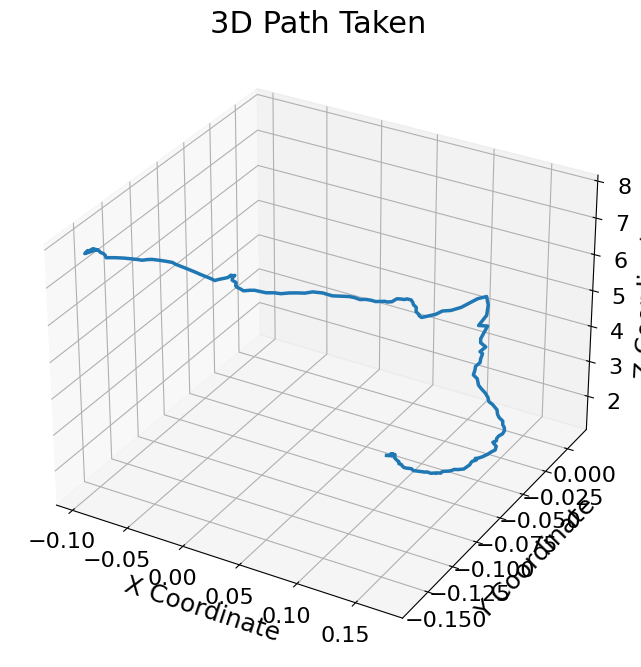
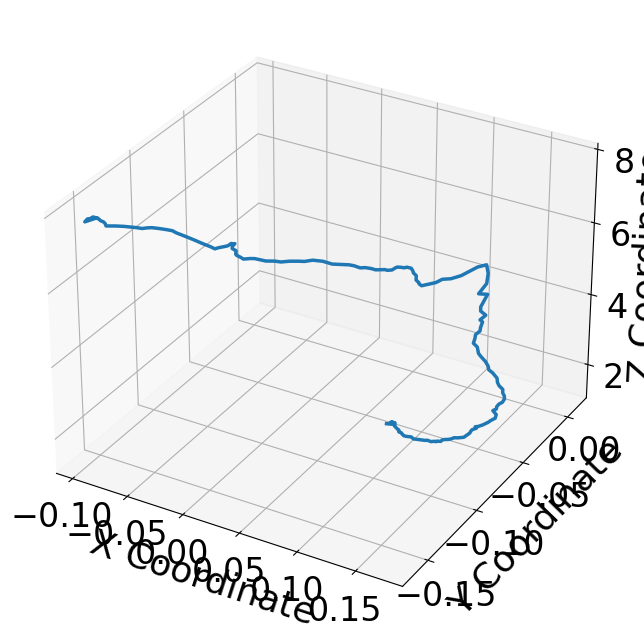
Added more for thesis

diff --git a/Documentation/Code/Plot_graph_sim.py b/Documentation/Code/Plot_graph_sim.py
@@ -49,11 +49,12 @@ z_coords_cut = [z_coords[i] for i in filtered_indices]
 fig = plt.figure(figsize=(10, 8))
 ax = fig.add_subplot(111, projection='3d')
 ax.plot(x_coords_cut, y_coords_cut, z_coords_cut, linewidth=2.5)
-ax.set_xlabel('X Coordinate', fontsize=18)
-ax.set_ylabel('Y Coordinate', fontsize=18)
-ax.set_zlabel('Z Coordinate', fontsize=18)
-ax.set_title('3D Path Taken', fontsize=22)
-ax.tick_params(axis='both', which='major', labelsize=16)
+ax.set_xlabel('X Coordinate', fontsize=26)
+ax.set_ylabel('Y Coordinate', fontsize=26)
+ax.set_zlabel('Z Coordinate', fontsize=26)
+#ax.set_title('3D Path Taken', fontsize=22)
+ax.tick_params(axis='both', which='major', labelsize=24)
+plt.grid(True, linestyle='-', linewidth=1.5)  # Adding the grid with specific linestyle and linewidth
 plt.savefig('Documentation/Images/finished/3d_path_plot_sim.png', bbox_inches='tight')
 
 # Enable LaTeX rendering
@@ -63,11 +64,12 @@ fig_2d = plt.figure(figsize=(10, 8))
 plt.plot(x_coords_cut, y_coords_cut, 'k', linewidth=2.5, label='Trajectory')
 plt.scatter([x_coords_cut[0]], [y_coords_cut[0]], c='k', marker='x', s=100, label='Start')
 plt.scatter([x_coords_cut[-1]], [y_coords_cut[-1]], c='k', marker='o', s=100, label='End')
-plt.xlabel(r'$x$ in m', fontsize=18)
-plt.ylabel(r'$y$ in m', fontsize=18)
+plt.xlabel(r'$x$ in m', fontsize=26)
+plt.ylabel(r'$y$ in m', fontsize=26)
 #plt.title('Distance to Target', fontsize=22)
-plt.tick_params(axis='both', which='major', labelsize=16)
-plt.legend(fontsize=16)
+plt.tick_params(axis='both', which='major', labelsize=24)
+plt.grid(True, linestyle='-', linewidth=1.5)  # Adding the grid with specific linestyle and linewidth
+plt.legend(fontsize=22)
 plt.savefig('Documentation/Images/finished/2d_plot_sim.png', bbox_inches='tight')
 
 
@@ -84,15 +86,16 @@ ax.scatter([distances[0]], [z_coords_cut[0]], c='k', marker='x', s=100, label='S
 ax.scatter([distances[-1]], [z_coords_cut[-1]], c='k', marker='o', s=100, label='End')
 
 # Labeling the plot
-ax.set_xlabel('Distance on XY Plane in m', fontsize=18)
-ax.set_ylabel('Altitude in m', fontsize=18)
+ax.set_xlabel('Distance on XY Plane in m', fontsize=26)
+ax.set_ylabel('Altitude in m', fontsize=26)
 #ax.set_title('Altitude vs. Distance Traveled', fontsize=22)
 
 # Set background and text colors for visibility
 # ax.set_facecolor('k')
 # fig.set_facecolor('k')
-ax.tick_params(axis='both', which='major', labelsize=16)
-legend = ax.legend(fontsize=16)
+ax.tick_params(axis='both', which='major', labelsize=24)
+plt.grid(True, linestyle='-', linewidth=1.5)  # Adding the grid with specific linestyle and linewidth
+legend = ax.legend(fontsize=22)
 # plt.setp(legend.get_texts(), color='w')
 # legend.get_frame().set_facecolor('k')
 

diff --git a/uav_pl_rpi_tins/src/landing_main.py b/uav_pl_rpi_tins/src/landing_main.py
@@ -750,7 +750,7 @@ class main():
 
                     if alt is not None: #Small circle found
                         rospy.loginfo_throttle(1, "Small circle found")
-                        tolerance_radius = 0.1 #How close the tin has to be to the first radius found (To ensure always tracking the same tin)
+                        tolerance_radius = 0.2 #How close the tin has to be to the first radius found (To ensure always tracking the same tin)
                         #This is relative to the immage coordinate system (x ranges from -1 to 1 and y from -0.75 to 0.75)
                         #Align the UAV with the tin right before landing
                         #The mode before already aligned the uav well relative to the middle circle
@@ -830,7 +830,7 @@ class main():
                         rospy.loginfo("No tins found. Landing at current position")
                         self.uav_inst.state = self.state_inst.land
 
-                    elif self.err_estimation.time_last_detection is not None and rospy.Time.now().to_sec() - self.err_estimation.time_last_detection > 1:
+                    elif self.err_estimation.time_last_detection is not None and rospy.Time.now().to_sec() - self.err_estimation.time_last_detection > 0.5:
                         #If no tins found for 1s, switch mode to ascend slightly and try again
                         #Tins were detected before but not anymore
                         rospy.loginfo("No tins found for 1s, switching to descend_inner_circle.")

diff --git a/Documentation/Code/code_thr_avoid_tins.py b/Documentation/Code/code_thr_avoid_tins.py
@@ -1,0 +1,35 @@
+import cv2
+import numpy as np
+
+# Load the image
+image = cv2.imread('Documentation/Images/manual_landing_raw.png')
+
+# Convert to HSV color space
+hsv = cv2.cvtColor(image, cv2.COLOR_BGR2HSV)
+
+# Define range for black color in HSV
+lower_black = np.array([0, 0, 0])
+upper_black = np.array([10, 10, 10])
+
+# Create mask to extract black regions
+mask = cv2.inRange(hsv, lower_black, upper_black)
+
+# Apply the mask to the image
+filtered_image = cv2.bitwise_and(image, image, mask=mask)
+
+# Convert the filtered image to grayscale
+gray = cv2.cvtColor(filtered_image, cv2.COLOR_BGR2GRAY)
+
+# Apply thresholding to get a binary image
+_, binary = cv2.threshold(gray, 50, 255, cv2.THRESH_BINARY)
+
+# Apply Canny edge detection
+edges = cv2.Canny(binary, 100, 200)
+
+# Display the results
+cv2.imshow('Original Image', image)
+cv2.imshow('Filtered Image', filtered_image)
+cv2.imshow('Binary Image', binary)
+cv2.imshow('Edges', edges)
+cv2.waitKey(0)
+cv2.destroyAllWindows()

diff --git a/Documentation/Code/Contour_fit.py b/Documentation/Code/Contour_fit.py
@@ -164,18 +164,20 @@ contour = cv2.findContours(processed_image, cv2.RETR_EXTERNAL, cv2.CHAIN_APPROX_
 processed_image = cv2.cvtColor(processed_image, cv2.COLOR_GRAY2BGR)
 contour = contour[0] if len(contour) == 2 else contour[1]
 print("contour: ", contour)
+
+image = cv2.cvtColor(image, cv2.COLOR_GRAY2BGR)
 for c in contour:
     # if cv2.contourArea(c) < 1000:
     #     continue
     approx_temp = cv2.approxPolyDP(c, 0.1*cv2.arcLength(c, True), True)
     #Draw the contour
-    cv2.drawContours(image, [approx_temp], 0, (0, 0, 0), 10)
+    cv2.drawContours(image, [approx_temp], 0, (255, 0, 0), 20)
 
 
 
 # For the original image
 plt.figure(figsize=(10, 10))
-plt.imshow(image, cmap='gray')
+plt.imshow(image)
 plt.axis('off')  # Hides the axis
 plt.savefig('Documentation/Images/finished/contour_img.png', bbox_inches='tight')
 

diff --git a/Documentation/Code/Contour_checked_square.py b/Documentation/Code/Contour_checked_square.py
@@ -163,12 +163,13 @@ processed_image, ret = adaptive_otsu_thresholding(image, altitude)
 contour = cv2.findContours(processed_image, cv2.RETR_EXTERNAL, cv2.CHAIN_APPROX_SIMPLE)
 processed_image = cv2.cvtColor(processed_image, cv2.COLOR_GRAY2BGR)
 contour = contour[0] if len(contour) == 2 else contour[1]
+image = cv2.cvtColor(image, cv2.COLOR_GRAY2BGR)
 for c in contour:
     if cv2.contourArea(c) < 100000:
         continue
     approx_temp = cv2.approxPolyDP(c, 0.1*cv2.arcLength(c, True), True)
     #Draw the contour
-    cv2.drawContours(image, [approx_temp], 0, (0, 0, 0), 10)
+    cv2.drawContours(image, [approx_temp], 0, (255, 0, 0), 20)
 
     
 
